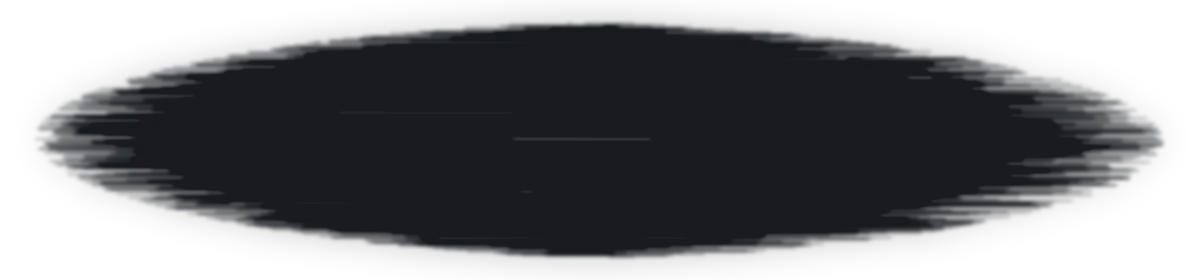
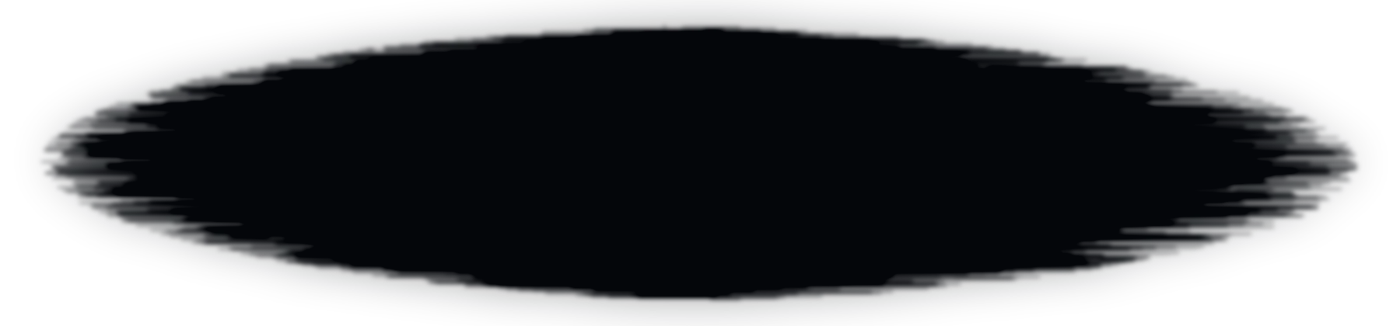
Sanh theo mockup, vet muc den man cho ro hon
Claude-Session: https://claude.ai/code/session_01QQj46rsF4z2ee4KuP8oJja

diff --git a/game/index.html b/game/index.html
@@ -850,7 +850,7 @@ html.needland #rot{display:flex}
 #ldg .lbg{position:absolute;inset:0;background:url(assets/ui/loading/cong.webp) center/cover no-repeat;background-color:#07090d}
 #ldg .lbg:after{content:"";position:absolute;inset:0;background:linear-gradient(rgba(5,7,12,.45),rgba(5,7,12,0) 24%,rgba(5,7,12,0) 46%,rgba(5,7,12,.7) 68%,rgba(5,7,12,.95) 86%)}
 #ldg{padding-bottom:max(10px,calc(env(safe-area-inset-bottom) + 3vh))!important}
-#ldg .lv{position:absolute;top:max(6px,calc(env(safe-area-inset-top) + 2.5vh));left:50%;transform:translate(-50%,-2%);height:clamp(60px,24vh,200px);width:min(96vw,calc(clamp(60px,24vh,200px)*4.3));background:url(assets/ui/loading/vet_den.webp) center/100% 100% no-repeat;opacity:.9;pointer-events:none}
+#ldg .lv{position:absolute;top:max(6px,calc(env(safe-area-inset-top) + 2.5vh));left:50%;transform:translate(-50%,-12%);height:clamp(80px,32vh,260px);width:min(100vw,calc(clamp(80px,32vh,260px)*4.3));background:url(assets/ui/loading/vet_den.webp) center/100% 100% no-repeat;opacity:1;pointer-events:none}
 #ldg .lt{position:absolute;top:max(6px,calc(env(safe-area-inset-top) + 2.5vh));left:50%;transform:translateX(-50%);height:clamp(46px,17vh,150px);width:auto;max-width:92vw;filter:drop-shadow(0 2px 6px #000);pointer-events:none}
 #ldg .lbx{position:relative;width:min(1150px,70vw);display:grid;gap:clamp(3px,1.2vh,12px)}
 #ldg .ls{justify-self:center;font:500 clamp(13px,3.2vh,24px) "Noto Serif",Georgia,serif;color:#e4d9bf;letter-spacing:.03em;text-shadow:0 1px 6px #000;margin-bottom:clamp(0px,1.2vh,10px)}
@@ -1755,6 +1755,41 @@ html body #wbar .wl,html body #wbar .wr{color:#e8dcc8!important}
 #create .cxC .cx-preview .cxst.cxst{left:50%;right:auto;transform:translateX(-50%);bottom:max(16%,60px);width:46%;height:62%;background:transparent;box-shadow:none;border-radius:0}
 #create .cxC .cx-preview .cxst.cxst::after,#create .cxC .cx-preview .cxst .cxig{display:none}
 @media (max-height:400px){#create .cxR .cxsect .cxwb{min-height:0}#create .cxR .cxskr .cxs{width:26px;height:26px;font-size:15px}#create .cxR .cxRb.cxRb{gap:5px}#create .cxR .cxsk{gap:3px}#create .cxR #crSkD{font-size:11.5px;line-height:1.38}#create .cxL.cxL{gap:clamp(12px,4.4vh,20px)}}
+/* ===== SẢNH THEO MOCKUP 26/11: hồ sơ trái trên, tiêu đề giữa, nhân vật giữa, lưới 4+3 dưới trái, Vượt Ải dưới phải ===== */
+html body #lobby:not([hidden]){background:#07090d url(assets/ui/loading/cong.webp) 50% 30%/cover no-repeat!important}
+html body #lobby #lbBg{display:none!important}
+html body #lobby::after{content:"";position:absolute;inset:0;pointer-events:none;background:linear-gradient(180deg,rgba(4,6,10,.55),rgba(4,6,10,0) 22%,rgba(4,6,10,0) 55%,rgba(4,6,10,.7))}
+html body #lobby .lb{display:block!important;max-width:none!important;padding:0!important;z-index:2}
+html body #lobby .lbl,html body #lobby .lbr{display:contents!important}
+html body #lobby .lbprof{position:absolute;left:max(2.2vw,env(safe-area-inset-left));top:max(2.4vh,env(safe-area-inset-top));width:clamp(250px,30vw,380px);margin:0;z-index:3}
+html body #lobby .lbtitle{position:absolute;left:50%;top:max(1.4vh,env(safe-area-inset-top));transform:translateX(-50%);margin:0;width:clamp(200px,32vw,430px);height:clamp(34px,11vh,110px);font-size:0!important;background:url(assets/ui/loading/tieude.webp) center/contain no-repeat;filter:drop-shadow(0 2px 6px #000);z-index:3}
+html body #lobby .lbtitle small{display:none!important}
+html body #lobby #lbHero{position:absolute;left:50%;transform:translateX(-50%);bottom:clamp(88px,29vh,300px);height:clamp(90px,38vh,380px)!important;aspect-ratio:6/5;width:auto!important;max-width:40vw;z-index:2}
+html body #lobby .lbgrid.lbgrid{position:absolute!important;left:max(2.2vw,env(safe-area-inset-left));bottom:max(26px,env(safe-area-inset-bottom));width:clamp(300px,54vw,760px);height:clamp(84px,27vh,190px);margin:0!important;display:flex!important;flex-wrap:wrap;grid-template-columns:none!important;align-content:stretch;gap:0!important;padding:clamp(3px,1vh,8px) 0;box-sizing:border-box;background:linear-gradient(rgba(10,10,14,.82),rgba(6,6,10,.9));border:1px solid #6b5a3c;box-shadow:inset 0 0 0 2px #0a0806,inset 0 0 0 3px rgba(184,149,90,.45),0 8px 24px rgba(0,0,0,.6);z-index:3}
+html body #lobby .lbgrid.g7>*{flex:0 0 24.9%!important;width:24.9%;min-width:0;height:50%;box-sizing:border-box}
+html body #lobby .lbgrid.g7>[data-lb=diemtam],html body #lobby .lbgrid.g7>[data-lb=luyencong],html body #lobby .lbgrid.g7>[data-lb=amgioi]{flex-basis:33.2%!important;width:33.2%}
+html body #lobby .lbgrid.g7>[data-lb=inv]{order:1}html body #lobby .lbgrid.g7>[data-lb=luyenvk]{order:2}html body #lobby .lbgrid.g7>[data-lb=luyendan]{order:3}html body #lobby .lbgrid.g7>[data-lb=tangbao]{order:4}
+html body #lobby .lbgrid.g7>[data-lb=diemtam]{order:5}html body #lobby .lbgrid.g7>[data-lb=luyencong]{order:6}html body #lobby .lbgrid.g7>[data-lb=amgioi]{order:7}
+html body #lobby .lbgrid.g7 .lbt{display:flex!important;flex-direction:column!important;align-items:center;justify-content:center;gap:clamp(1px,.6vh,5px);text-align:center;background:none!important;box-shadow:none!important;border:0;border-radius:0;padding:2px 4px!important;min-height:0;position:relative}
+html body #lobby .lbgrid.g7 .lbt+.lbt:before{content:"";position:absolute;left:0;top:18%;bottom:18%;width:1px;background:linear-gradient(transparent,rgba(184,149,90,.55),transparent)}
+html body #lobby .lbgrid.g7>[data-lb=inv]:before,html body #lobby .lbgrid.g7>[data-lb=diemtam]:before{display:none}
+html body #lobby .lbgrid.g7 .lbt i{width:auto!important;height:auto!important;grid-row:auto;font:600 clamp(20px,6.2vh,40px)/1 "Noto Serif",serif!important;color:#e2c78a;background:none!important;box-shadow:none!important;text-shadow:0 2px 4px #000}
+html body #lobby .lbgrid.g7 .lbt b{font:600 clamp(9px,2.7vh,17px)/1.1 "Noto Serif",serif!important;color:#e6dcc6;align-self:auto;white-space:nowrap}
+html body #lobby .lbgrid.g7 .lbt small{display:none!important}
+html body #lobby .lbgrid.g7 .lbt:active,html body #lobby .lbgrid.g7 .lbt:hover{background:rgba(184,149,90,.12)!important}
+html body #lobby .lbmain{position:absolute;right:max(2.2vw,env(safe-area-inset-right));bottom:max(26px,env(safe-area-inset-bottom));width:clamp(190px,34vw,460px);margin:0!important;display:flex!important;flex-direction:column-reverse!important;gap:clamp(4px,1vh,8px)!important;z-index:3}
+html body #lobby .lbmain .lbbig{width:100%;align-items:center;text-align:center;border-radius:2px;padding:clamp(5px,1.4vh,12px) 10px!important}
+html body #lobby .lbmain .lbbig.gold{height:clamp(54px,17vh,120px);justify-content:center;background:linear-gradient(#5a0f1a,#2a060c)!important;box-shadow:inset 0 0 0 1px #14040a,inset 0 0 0 2px #a03040,inset 0 0 0 4px #14040a,inset 0 0 18px rgba(160,30,40,.55),0 8px 26px rgba(0,0,0,.7)!important}
+html body #lobby .lbmain .lbbig.gold b{font:600 clamp(22px,7.4vh,56px)/1.05 "Noto Serif",serif!important;color:#f0e2c2;letter-spacing:.04em}
+html body #lobby .lbmain .lbbig.gold small{color:#e6c8b0!important;font-size:clamp(9px,2.5vh,15px)!important}
+html body #lobby .lbmain .lbbig:not(.gold){grid-column:auto!important}
+html body #lobby .lbmain .lbbig:not(.gold) b{font-size:clamp(11px,3vh,17px)!important}
+html body #lobby .lbprof .lbcp small,html body #lobby .lbprof .lbcp b{white-space:nowrap!important;overflow:visible!important;text-overflow:clip!important}
+@media (max-width:700px){html body #lobby .lbprof{width:280px}html body #lobby .lbtitle{left:auto;right:max(3vw,env(safe-area-inset-right));transform:none;width:30vw}html body #lobby .lbprof .lbcp small{font-size:10px!important}html body #lobby .lbprof .lbcp b{font-size:15px!important}}
+html body #lobby .lbfoot{position:absolute;left:0;right:0;bottom:0;height:22px;z-index:3;padding:0 max(2.2vw,env(safe-area-inset-left));gap:6px 12px;font-size:10px;align-items:center;flex-wrap:nowrap;overflow:hidden;white-space:nowrap;background:linear-gradient(transparent,rgba(0,0,0,.6));justify-content:flex-start}
+html body #lobby .lbfoot .credit,html body #lobby .lbfoot .seglb{display:none}
+html body #lobby .lbfoot .seg button{padding:1px 8px;font-size:10px}html body #lobby .lbfoot .toggle{font-size:10px}
+@media (max-height:340px){html body #lobby .lbprof{width:clamp(200px,26vw,300px)}html body #lobby #lbHero{bottom:clamp(82px,32vh,130px)}}
 </style>
 </head>
 <body>

diff --git a/cong_cu/claude/ldg_vet_den.py b/cong_cu/claude/ldg_vet_den.py
@@ -21,6 +21,6 @@ for _ in range(60):
 # nhòe mép, mép mềm theo độ dày
 m=np.array(Image.fromarray((m*255).astype(np.uint8)).filter(ImageFilter.GaussianBlur(3)))/255.0
 core=np.array(Image.fromarray((m*255).astype(np.uint8)).filter(ImageFilter.GaussianBlur(26)))/255.0
-a=np.clip(m*0.86+core*0.25,0,0.92)
+a=np.clip(m*1.0+core*0.4,0,1.0)
 rgba=np.zeros((H,W,4),np.uint8);rgba[...,:3]=(5,6,10);rgba[...,3]=(a*255).astype(np.uint8)
 Image.fromarray(rgba,'RGBA').save(sys.argv[1],quality=85,method=6);print('ok')

diff --git a/CLAUDE.md b/CLAUDE.md
@@ -834,3 +834,5 @@ Quyết định (chủ game không chọn riêng nên lấy đề xuất): hình
 
 - (26/11) **Vệt mực đen sau tiêu đề màn chờ (chủ game):** `assets/ui/loading/vet_den.webp` (1200×280, dựng bằng `cong_cu/claude/ldg_vet_den.py`, elip cọ khô đen mép rách, tự vẽ bằng code) đặt bằng `#ldg .lv` ngay trước `.lt`, độ đục 0,9. Đã soi 1280×720 và 811×260 (tiêu đề đọc rõ hơn trên mái cổng). Ngân sách mở game 5,78/5,8 MB (sát trần).
 - (26/11) **Nền màn chờ đổi sang ảnh cổng tròn + tre + mưa + trăng góc phải (chủ game gửi 26/11):** `assets/ui/loading/cong.webp` (1600×900, 50 KB; gốc `nguon/master_amgioi/man_cho_7/nen_cong_tron_tre_mua_goc.png`, ảnh cổng trăng cũ ở `nguon/vfx_goc/cong_trang_man_cho_cu.webp`). Đã soi 1280×720 và 811×260; mở game 5,73 MB. Lưu ý: `ldg2.js` phải truyền thư mục ra (`node ldg2.js m`) kẻo không ghi ảnh.
+- (26/11) **SẢNH LÀM LẠI THEO MOCKUP (chủ game gửi ảnh "bố cục giao diện"):** khối CSS "SẢNH THEO MOCKUP 26/11" cuối `<style>` (trước `</style>` sau luật `#create .cxC .cx-preview .cxst`): `.lb/.lbl/.lbr` thành `display:contents`, mọi phần đặt `position:absolute`: thẻ hồ sơ góc trái trên, tiêu đề ảnh thư pháp `tieude.webp` giữa trên, nhân vật `#lbHero` giữa (aspect 6/5), lưới 7 ô **4 trên + 3 dưới** (flex, order theo `data-lb`: inv, luyenvk, luyendan, tangbao | diemtam, luyencong, amgioi; icon chữ Hán + tên, vạch ngăn, khung viền vàng) dưới trái, nút **Vượt Ải** đỏ lớn dưới phải (Rương Boss/Tiếp tục xếp phía trên nó), chân trang Tầm nhìn/Giảm hiệu ứng nằm dải mỏng dưới đáy. Nền sảnh TẠM = `loading/cong.webp` (cổng tròn), `#lbBg` canvas bị ẩn; ảnh nền pixel như mockup chưa có. Chưa làm: ô xu + nút bánh răng góc phải trên (mockup có), icon pixel thay chữ Hán. Lưu ý đặc hiệu CSS: luật cũ `#lobby .lbgrid.g7` (id + 2 class) thắng `html body #lobby .lbgrid`; dùng `.lbgrid.lbgrid`. Đã soi 550×278, 667×375, 811×260, 956×440, 1280×720 (xem bằng mắt) và 852×393, 932×430, 1100×620 (chạy không lỗi, chưa mở ảnh); bấm Tàng Bảo Các và Vượt Ải vẫn mở đúng.
+- (26/11) Vệt mực đen màn chờ phóng to/đậm hơn (`vet_den.webp` 1400×326, `.lv` cao 32vh, độ đục 1) vì bản trước chủ game không thấy.
